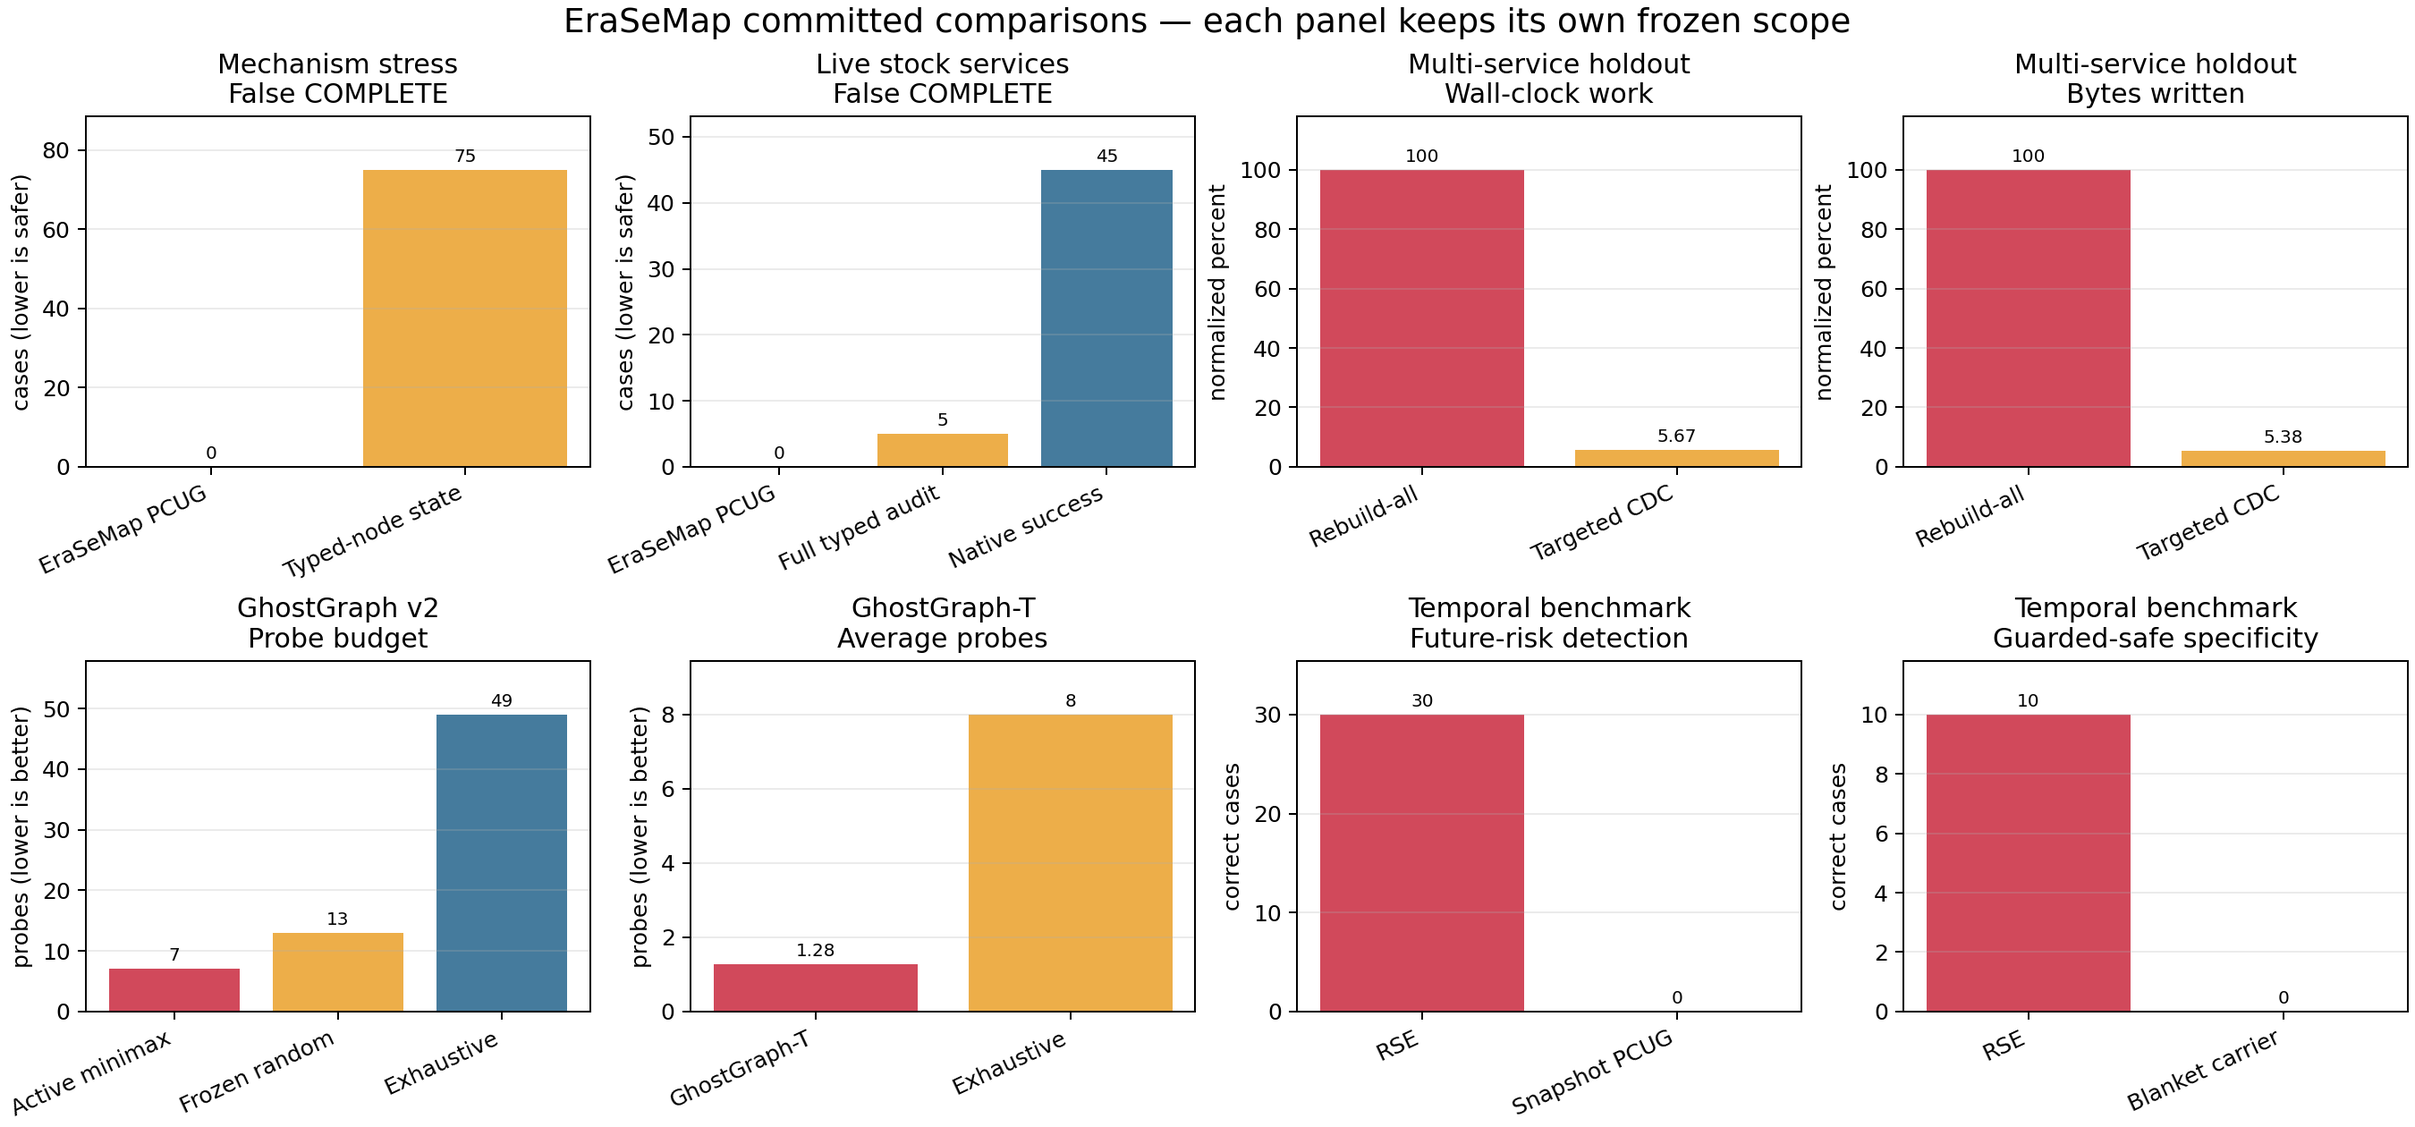
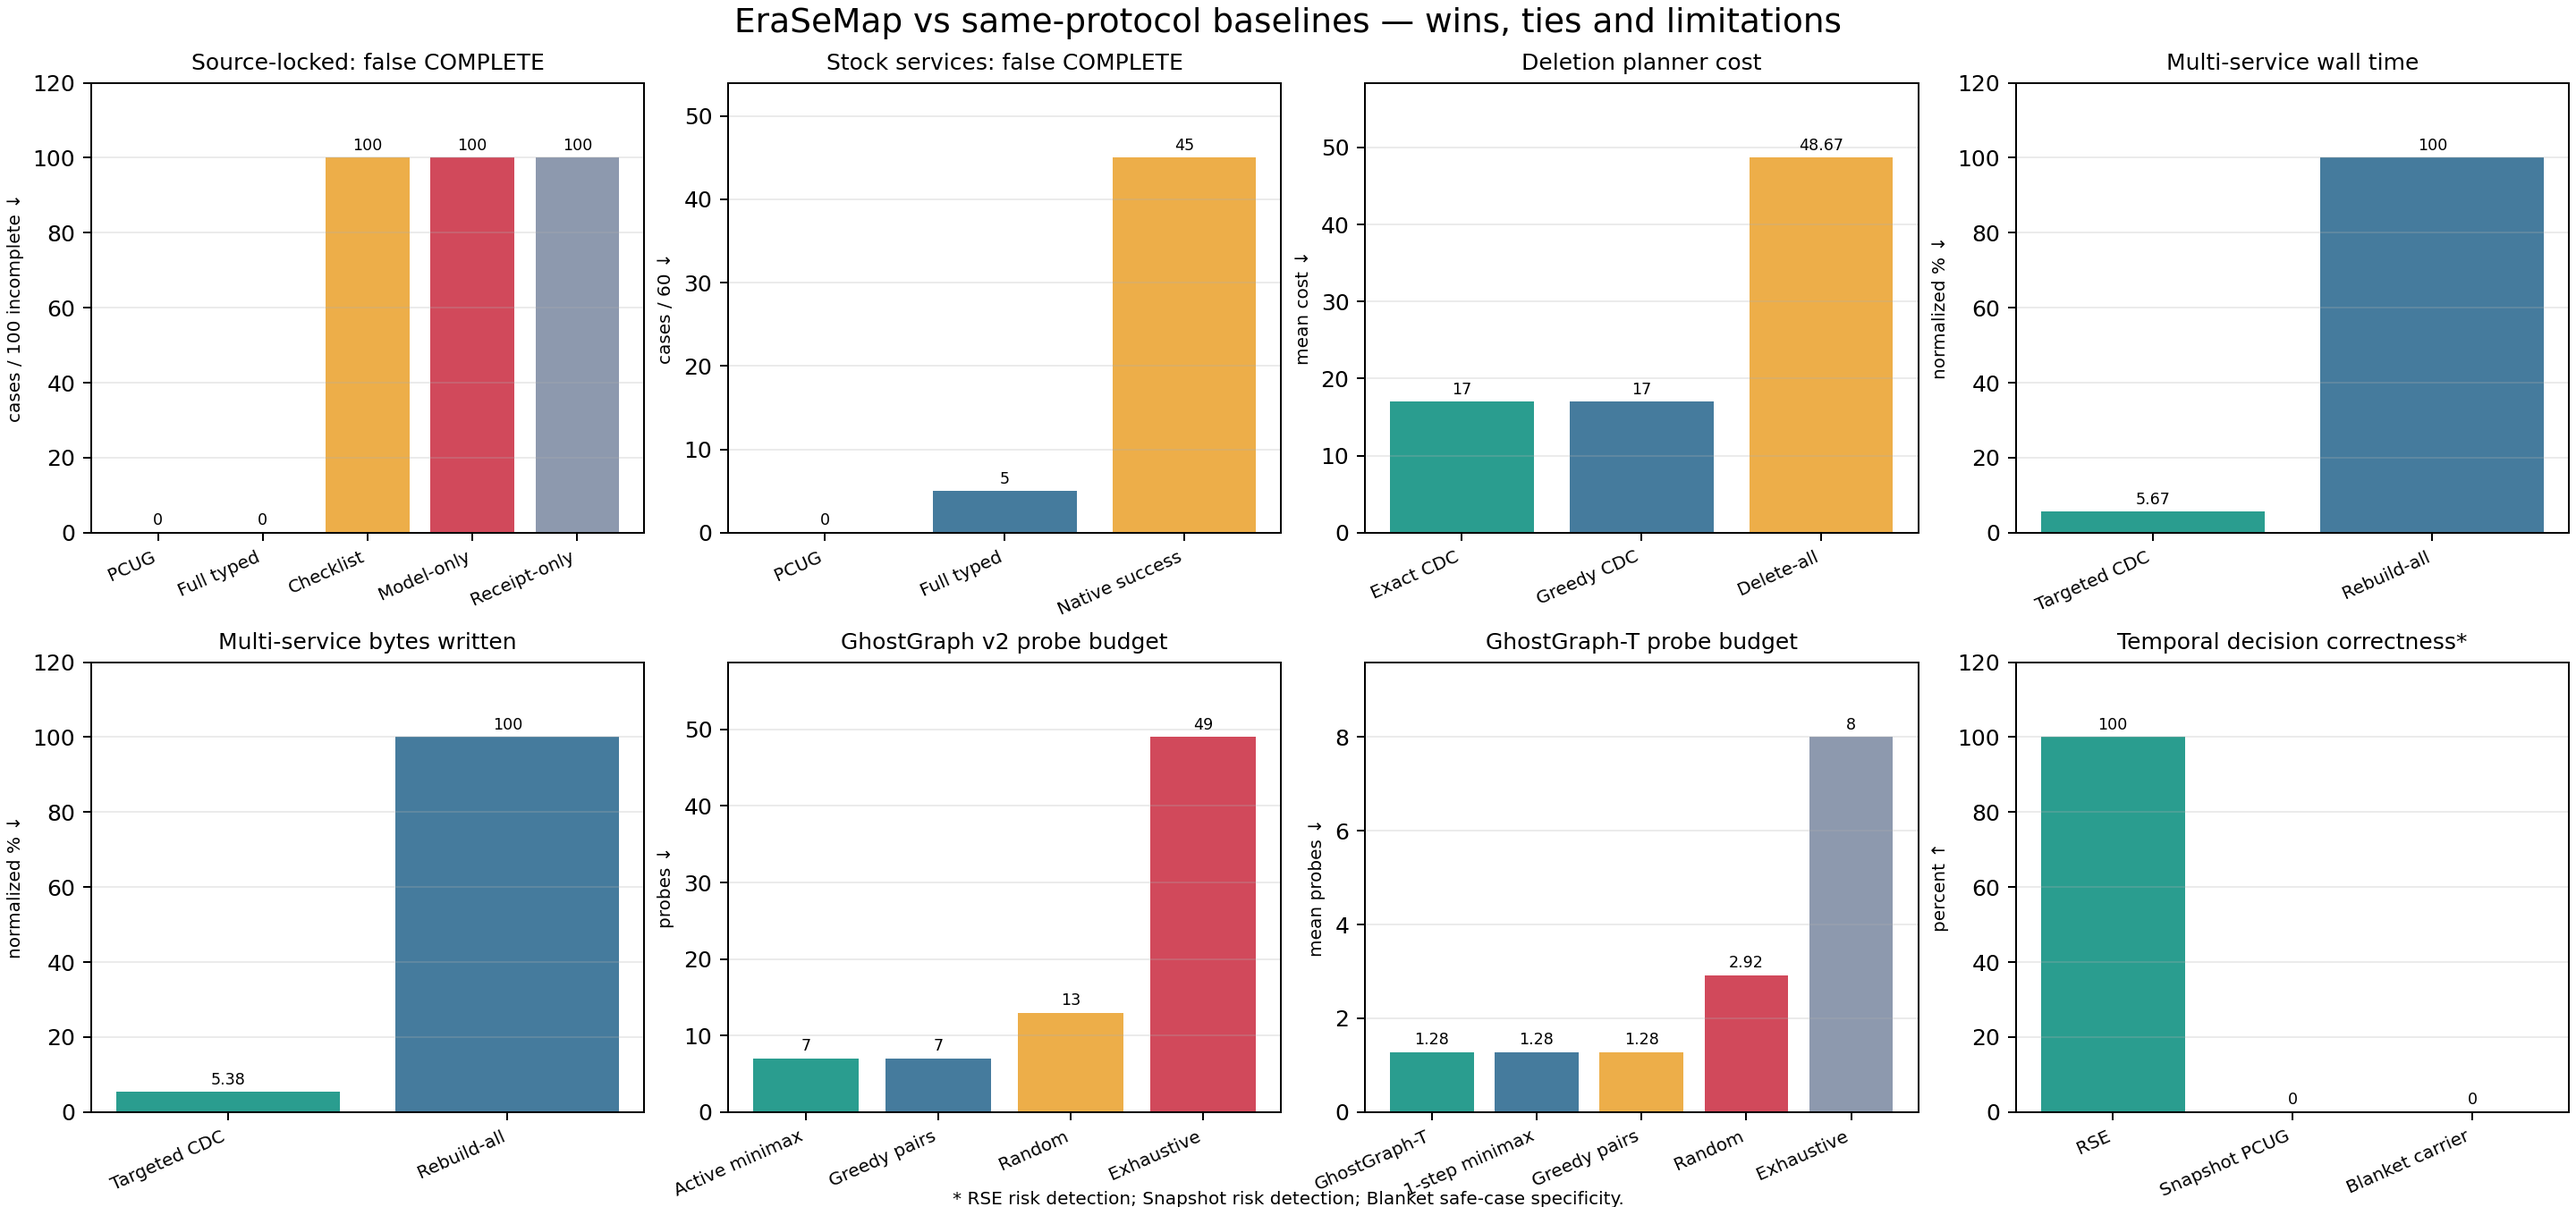
Replace evidence charts with direct algorithm comparisons

diff --git a/experiments/render_evidence_comparisons.py b/experiments/render_evidence_comparisons.py
@@ -8,155 +8,97 @@ from typing import Any
 import matplotlib.pyplot as plt
 import numpy as np
 
-COLORS = ("#d1495b", "#edae49", "#457b9d", "#2a9d8f")
-
-
-def _annotated_bars(
-    axis: Any,
-    labels: tuple[str, ...],
-    values: tuple[float, ...],
-    *,
-    title: str,
-    ylabel: str,
-    suffix: str = "",
-) -> None:
-    positions = np.arange(len(values))
-    axis.bar(positions, values, color=COLORS[: len(values)])
-    axis.set_xticks(positions, labels, rotation=25, ha="right")
-    axis.set_title(title)
-    axis.set_ylabel(ylabel)
-    axis.grid(axis="y", alpha=0.25)
-    ceiling = max(values) if max(values) > 0 else 1.0
-    axis.set_ylim(0, ceiling * 1.18)
-    for index, value in enumerate(values):
-        label = f"{value:.2f}{suffix}" if value % 1 else f"{value:.0f}{suffix}"
-        axis.text(index, value + ceiling * 0.015, label, ha="center", va="bottom", fontsize=8)
+COLORS = ("#2a9d8f", "#457b9d", "#edae49", "#d1495b", "#8d99ae")
 
 
 def _chart(data: dict[str, Any], chart_id: str) -> dict[str, Any]:
     return next(chart for chart in data["charts"] if chart["id"] == chart_id)
 
 
-def render_system_comparison(data: dict[str, Any], output: Path) -> None:
-    stress = _chart(data, "01_false_complete_stress")
-    stock = _chart(data, "02_false_complete_stock_services")
-    efficiency = _chart(data, "03_targeted_cdc_efficiency")
-    ghostgraph = _chart(data, "04_ghostgraph_probe_budget")
-    ghostgraph_t = _chart(data, "05_ghostgraph_t_action_identification")
-    temporal = _chart(data, "06_temporal_rse")
+def _bars(axis: Any, labels: list[str], values: list[float], title: str, ylabel: str) -> None:
+    x = np.arange(len(values))
+    axis.bar(x, values, color=COLORS[: len(values)])
+    axis.set_xticks(x, labels, rotation=24, ha="right", fontsize=8)
+    axis.set_title(title, fontsize=10)
+    axis.set_ylabel(ylabel, fontsize=8)
+    axis.grid(axis="y", alpha=0.25)
+    ceiling = max(values) or 1
+    axis.set_ylim(0, ceiling * 1.20)
+    for i, value in enumerate(values):
+        text = f"{value:.2f}" if value % 1 else f"{value:.0f}"
+        axis.text(i, value + ceiling * 0.02, text, ha="center", fontsize=7)
 
-    figure, axes = plt.subplots(2, 4, figsize=(15, 7), constrained_layout=True)
-    panels = (
+
+def render_system_comparison(data: dict[str, Any], output: Path) -> None:
+    source = _chart(data, "01_source_locked")
+    stock = _chart(data, "02_stock_services")
+    planner = _chart(data, "03_planner_cost")
+    multi = _chart(data, "04_multiservice")
+    ghost = _chart(data, "05_ghostgraph_v2")
+    ghost_t = _chart(data, "06_ghostgraph_t")
+    temporal = _chart(data, "07_temporal")
+    fig, ax = plt.subplots(2, 4, figsize=(16, 7.5), constrained_layout=True)
+    panels = [
         (
-            axes[0, 0],
-            tuple(stress["labels"]),
-            tuple(float(value) for value in stress["values"]),
-            "Mechanism stress\nFalse COMPLETE",
-            "cases (lower is safer)",
+            source["labels"],
+            source["values"],
+            "Source-locked: false COMPLETE",
+            "cases / 100 incomplete ↓",
         ),
+        (stock["labels"], stock["values"], "Stock services: false COMPLETE", "cases / 60 ↓"),
+        (planner["labels"], planner["values"], "Deletion planner cost", "mean cost ↓"),
+        (multi["labels"], multi["time"], "Multi-service wall time", "normalized % ↓"),
+        (multi["labels"], multi["bytes"], "Multi-service bytes written", "normalized % ↓"),
+        (ghost["labels"], ghost["values"], "GhostGraph v2 probe budget", "probes ↓"),
+        (ghost_t["labels"], ghost_t["probes"], "GhostGraph-T probe budget", "mean probes ↓"),
         (
-            axes[0, 1],
-            tuple(stock["labels"]),
-            tuple(float(value) for value in stock["values"]),
-            "Live stock services\nFalse COMPLETE",
-            "cases (lower is safer)",
+            temporal["labels"],
+            temporal["correct_pct"],
+            "Temporal decision correctness*",
+            "percent ↑",
         ),
-        (
-            axes[0, 2],
-            ("Rebuild-all", "Targeted CDC"),
-            (100.0, float(efficiency["series"]["Targeted CDC"][0])),
-            "Multi-service holdout\nWall-clock work",
-            "normalized percent",
-        ),
-        (
-            axes[0, 3],
-            ("Rebuild-all", "Targeted CDC"),
-            (100.0, float(efficiency["series"]["Targeted CDC"][1])),
-            "Multi-service holdout\nBytes written",
-            "normalized percent",
-        ),
-        (
-            axes[1, 0],
-            tuple(ghostgraph["labels"]),
-            tuple(float(value) for value in ghostgraph["values"]),
-            "GhostGraph v2\nProbe budget",
-            "probes (lower is better)",
-        ),
-        (
-            axes[1, 1],
-            tuple(ghostgraph_t["labels"]),
-            tuple(float(value) for value in ghostgraph_t["values"]),
-            "GhostGraph-T\nAverage probes",
-            "probes (lower is better)",
-        ),
-        (
-            axes[1, 2],
-            ("RSE", "Snapshot PCUG"),
-            (float(temporal["series"]["RSE"][0]), 0.0),
-            "Temporal benchmark\nFuture-risk detection",
-            "correct cases",
-        ),
-        (
-            axes[1, 3],
-            ("RSE", "Blanket carrier"),
-            (float(temporal["series"]["RSE"][1]), 0.0),
-            "Temporal benchmark\nGuarded-safe specificity",
-            "correct cases",
-        ),
-    )
-    for axis, labels, values, title, ylabel in panels:
-        _annotated_bars(axis, labels, values, title=title, ylabel=ylabel)
-    figure.suptitle(
-        "EraSeMap committed comparisons — each panel keeps its own frozen scope",
-        fontsize=15,
+    ]
+    for axis, (labels, values, title, ylabel) in zip(ax.flat, panels, strict=True):
+        _bars(axis, list(labels), [float(v) for v in values], title, ylabel)
+    fig.suptitle("EraSeMap vs same-protocol baselines — wins, ties and limitations", fontsize=15)
+    fig.text(
+        0.5,
+        0.002,
+        "* RSE risk detection; Snapshot risk detection; Blanket safe-case specificity.",
+        ha="center",
+        fontsize=8,
     )
     output.parent.mkdir(parents=True, exist_ok=True)
-    figure.savefig(output, dpi=180)
-    plt.close(figure)
+    fig.savefig(output, dpi=180)
+    plt.close(fig)
 
 
 def render_unlearning_comparison(data: dict[str, Any], output: Path) -> None:
-    chart = _chart(data, "07_unlearning_tradeoff")
-    metrics = chart["metrics"]
-    figure, axes = plt.subplots(1, 3, figsize=(15, 3.8), constrained_layout=True)
-    _annotated_bars(
-        axes[0],
-        ("Candidate", "Exact retrain"),
-        (
-            float(metrics["retained_verification_auc"]["candidate"]) * 100,
-            float(metrics["retained_verification_auc"]["exact"]) * 100,
-        ),
-        title="MUFAC v3.2\nRetained verification AUC",
-        ylabel="percent (higher is better)",
+    chart = _chart(data, "08_unlearning")
+    labels = chart["labels"]
+    fig, ax = plt.subplots(1, 4, figsize=(17, 4.2), constrained_layout=True)
+    _bars(ax[0], labels, chart["retained_auc_pct"], "Retained verification utility", "AUC % ↑")
+    _bars(
+        ax[1],
+        labels,
+        chart["worst_privacy_advantage_pct"],
+        "Worst privacy attack",
+        "advantage % ↓",
     )
-    _annotated_bars(
-        axes[1],
-        ("Candidate", "Exact retrain"),
-        (
-            float(metrics["speedup"]["candidate"]),
-            float(metrics["speedup"]["exact"]),
-        ),
-        title="MUFAC v3.2\nSpeedup",
-        ylabel="times (higher is better)",
-        suffix="x",
+    _bars(
+        ax[2],
+        labels,
+        chart["functional_mse_x1000"],
+        "Distance from exact behavior",
+        "functional MSE x1000 ↓",
     )
-    _annotated_bars(
-        axes[2],
-        ("Candidate", "Frozen gate"),
-        (
-            float(metrics["privacy_upper_bound"]["candidate"]),
-            float(metrics["privacy_upper_bound"]["gate"]),
-        ),
-        title="MUFAC v3.2\nPrivacy upper bound",
-        ylabel="advantage (lower is better)",
-    )
-    figure.suptitle(
-        "Model-unlearning trade-off — the candidate passes its gate; exact remains the reference",
-        fontsize=14,
-    )
+    runtime_labels = labels[:-1]
+    runtime = [float(v) for v in chart["runtime_seconds"][:-1]]
+    _bars(ax[3], runtime_labels, runtime, "Measured update runtime", "seconds ↓")
+    fig.suptitle("MUFAC v3.2 — direct same-model unlearning algorithm comparison", fontsize=14)
     output.parent.mkdir(parents=True, exist_ok=True)
-    figure.savefig(output, dpi=180)
-    plt.close(figure)
+    fig.savefig(output, dpi=180)
+    plt.close(fig)
 
 
 def main() -> int:

diff --git a/tests/test_evidence_chart_data.py b/tests/test_evidence_chart_data.py
@@ -10,8 +10,16 @@ def test_evidence_chart_manifest_has_sources_and_honest_boundary() -> None:
     data = json.loads(
         (ROOT / "benchmark" / "evidence-charts-v1.json").read_text(encoding="utf-8")
     )
-    assert data["schema_version"] == "erasemap-evidence-charts-v1"
-    assert len(data["charts"]) == 7
-    assert len({chart["id"] for chart in data["charts"]}) == 7
+    assert data["schema_version"] == "erasemap-algorithm-comparisons-v2"
+    assert len(data["charts"]) == 8
+    assert len({chart["id"] for chart in data["charts"]}) == 8
     assert "must not be pooled" in data["claim_boundary"]
     assert all((ROOT / chart["source"]).is_file() for chart in data["charts"])
+    unlearning = next(chart for chart in data["charts"] if chart["id"] == "08_unlearning")
+    assert unlearning["labels"] == [
+        "EraSeMap candidate",
+        "Exact retrain",
+        "Gradient ascent",
+        "Head-only",
+        "Stale",
+    ]

diff --git a/README.md b/README.md
@@ -141,16 +141,27 @@ synthetic graph semantics. They are not integrations with Apple, eGov, a bank, o
 | Organization production pilot | Machine-validated protocol ready; no organization run claimed |
 | Production FaceID/eGov applicability | Not established; requires authorized instrumentation and evaluation |
 
-## Evidence comparison figures
+## Direct algorithm comparisons
 
 Each panel below reproduces a committed result under its own frozen protocol. The panels must not be
 pooled into one universal “superiority score”: the source-locked experiment still contains a tie
 with the strongest full typed audit, GhostGraph-T tied the strong adaptive baselines, and the
 unlearning candidate remains slightly below exact retraining on retained utility.
 
-![EraSeMap system comparisons across frozen experiments](docs/assets/erasemap-system-comparisons.png)
+![EraSeMap algorithms versus same-protocol baselines](docs/assets/erasemap-system-comparisons.png)
 
-![MUFAC v3.2 candidate versus exact retraining](docs/assets/erasemap-unlearning-v3-comparison.png)
+![MUFAC v3.2 direct unlearning algorithm comparison](docs/assets/erasemap-unlearning-v3-comparison.png)
+
+These are not cross-paper leaderboard figures. Every panel compares methods run under the same
+committed protocol. The honest result is mixed:
+
+| Result | Direct evidence |
+|---|---|
+| **Win** | PCUG has 0 false-COMPLETE decisions versus 100/100 for checklist, model-only and receipt-only on the source-locked holdout; on stock services it has 0 versus 5 for full typed audit and 45 for native-success signals. |
+| **Win** | Targeted CDC reaches the same 20/20 replayed-COMPLETE outcome with 17.64x speedup and 94.62% fewer bytes than rebuild-all. |
+| **Win** | GhostGraph active probing uses 7 probes versus 13 random and 49 exhaustive; GhostGraph-T uses 1.28 versus 2.92 random and 8 exhaustive mean probes. |
+| **Tie** | PCUG and full typed audit both have 0/100 false COMPLETE on the source-locked holdout. Exact CDC ties greedy CDC at mean cost 17. GhostGraph-T ties one-step minimax and greedy separated-pairs at 1.28 probes. |
+| **Loss / trade-off** | The MUFAC candidate is faster than exact retraining (0.313 s versus 0.498 s) and much closer to exact behavior than gradient ascent or head-only, but retained AUC is lower than exact (91.912% versus 92.565%) and head-only (92.635%). Exact retraining remains the reference and mandatory fallback when a gate fails. |
 
 The chart inputs and provenance paths are frozen in
 [`benchmark/evidence-charts-v1.json`](benchmark/evidence-charts-v1.json). Rebuild the figures with:
